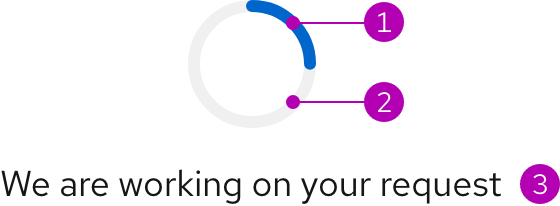
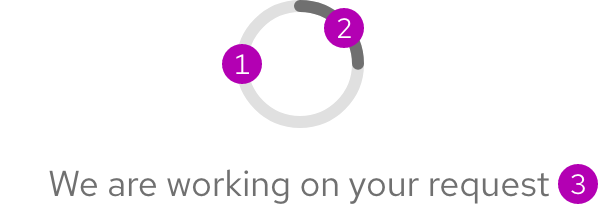
docs(spinner): updated spinner docs based on XD and Google docs

Changed region(s): [[0.0, 0.7864, 1.0, 0.9903], [0.3643, 0.0, 0.7286, 0.6408]]

diff --git a/elements/rh-spinner/docs/20-guidelines.md b/elements/rh-spinner/docs/20-guidelines.md
@@ -1,52 +1,66 @@
-{% section %}
-## Guidelines
+## Usage 
+Use a spinner to show that something is loading after a user takes action.
+## When to use a spinner 
+When users advance to a new page and the structure is unknown both in quantity and shape, use a spinner. If users expect to see components on a new screen after they perform an action, a Skeleton should be used instead in order to reflect the structure. If the wait time after performing an action is less than a few seconds, a spinner should be used. For experiences that need longer than a few seconds to load, use a Progress bar instead. Lastly, when the result of an experience has no data or the screen is empty, use an Empty state instead.
+## Contextual sizes 
+Depending on what data is being retrieved and loaded and how much space it occupies, use a spinner size that matches.
+The large size is the default, it can be used for whole pages or large containers
+The medium size is recommended for smaller pages or containers
+If you use the small size with a text label, it can be used in very small containers like a card
+If you use the small size without a text label, it should only be used in buttons or other containers of equal size
 
-The spinner is used to show that a page or section is loading after a user takes action. A spinner should be used when:
+{% example palette="light",
+          class="inline-flex centered",
+          style="margin-block:var(--rh-space-2xl);",
+          alt=" Spinner usage examples; from top to bottom, an app, a dialog, a card, and a button showing spinners of various sizes with and without text labels",
+          src="../spinner-examples.png" %}
+## Orientation 
+A spinner is always oriented above the optional text label, if visible.
 
-- loading is expected to take fewer than ten seconds or
-- the structure or amount of content that’s loading is unknown.
+{% example palette="light",
+          class="inline-flex centered",
+          style="margin-block:var(--rh-space-2xl);",
+          alt=" Two spinners; one showing the correct orientation and the other showing an incorrect orientation",
+          src="../spinner-orientation.png" %}
 
-### Adding a text label
 
-Keep the text label brief to give users enough time to read it. A maximum character count of about 30 characters should meet this requirement.
+## Text label 
+The text label should be as brief and general as possible in order to give users enough time to read it.
 
-### Sizing
+{% example palette="light",
+          class="inline-flex centered",
+          style="margin-block:var(--rh-space-2xl);",
+          alt=" Two spinners; one with a short text label, which is acceptable, and one with a very long text label which is not acceptable",
+          src="../spinner-text-label.png" %}
 
-The spinner comes in large, medium, and small.
-
-- The **large spinner** is the default size. This works well for whole pages or containers that are wider than 768px.
-- The **medium spinner** is recommended for containers that are smaller than 768px.
-- The **small spinner** without a text label should be used only in buttons or other elements of a similar size. If the small spinner will include a text label, it can be used in containers that are up to 360px wide, like a card.
-{% endsection %}
-
-{% section %}
-## Behavior
-
-### Animation
-
-The spinner animation will loop for as long as the content takes to load. The spinner will disappear once content begins to load.
-{% endsection %}
-
-{% section %}
-## Best practices
-
-### Placement
-
-Do not position a spinner anywhere other than vertically and horizontally centered. Keeping it centered should help the user understand that the whole area needs to load.
-
-{% example palette="wrong",
-           width=360,
-           alt="Spinner is centered horizontally but not vertically in blank card",
-           src="../spinner-best-practices-placement.png" %}
-
-### Using the small spinner
-
-Do not use a small spinner, especially without a text label, in large containers or for full pages. Doing this may make it harder for the user to spot.
+## Animation 
+The spinner animation will loop until the data is retrieved and disappears when it loads.
+## Best practices 
+### Bad placement 
+Do not align a spinner away from the horizontal and vertical center. Keeping it centered helps users understand that the whole area is loading instead of one specific part.
 
 {% example palette="wrong",
-           width=871,
-           alt="Small spinner in the middle of a blank page",
-           src="../spinner-best-practices-small-spinner.png" %}
-{% endsection %}
+          class="inline-flex centered",
+          style="margin-block:var(--rh-space-2xl);",
+          alt=" A spinner not horizontally or vertically centered in a container which is incorrect usage",
+          src="../spinner-best-practice-1.png" %}
 
-{% include 'feedback.html' %}
+### Cut off by browser window 
+A tooltip should not be cut off by the browser window. Change the orientation if it does.
+
+{% example palette="wrong",
+          class="inline-flex centered",
+          style="margin-block:var(--rh-space-2xl);",
+          alt=" A small spinner used in a large container which is incorrect usage",
+          src="../spinner-best-practice-2.png" %}
+
+
+### Wrong orientation 
+Do not change the orientation, the spinner is always positioned on top of the text label.
+
+{% example palette="wrong",
+          class="inline-flex centered",
+          style="margin-block:var(--rh-space-2xl);",
+          alt=" Two spinners with different orientations which is incorrect usage",
+          src="../spinner-best-practice-3.png" %}
+

diff --git a/elements/rh-spinner/docs/10-style.md b/elements/rh-spinner/docs/10-style.md
@@ -1,81 +1,85 @@
+
 {% section %}
-## Style
+## Style 
+A spinner is an animated line segment that follows a track and may include an optional text label.
+### Anatomy 
+{% example palette="light",
+          class="inline-flex centered",
+          style="margin-block:var(--rh-space-2xl);",
+          alt=" Anatomy of a spinner with annotations; number 1 is pointing to the track, number 2 is pointing to the indicator, and number 3 is pointing to the optional text label",
+          src="../spinner-anatomy.png" %}
 
-### Anatomy
+1) Track
+2) Indicator
+3) Optional text label
+{% endsection %}
 
-The spinner is composed of three parts. The track outlines the trajectory of the spinner animation, and the indicator is the animated segment. A spinner can also include a text label, but this piece is not required.
+{% section %}
+## Sizes 
+A spinner comes in large, medium, and small sizes. Each size includes an optional text label on the bottom.
 
 {% example palette="light",
-           width=280,
-           alt="Spinner with numbers pointing to parts of the element",
-           src="../spinner-anatomy.png" %}
+          class="inline-flex centered",
+          style="margin-block:var(--rh-space-2xl);",
+          alt=" Small size, medium size, and large size spinners with their text labels below",
+          src="../spinner-sizes.png" %}
 
-1. Indicator
-2. Track
-3. Text label
-{.example-notes}
 
 {% endsection %}
 
 {% section %}
-## Theme
-
-### Light theme
+## Theme 
+A spinner is available in both light and dark themes.
+### Light theme 
 {% example palette="light",
-           width=251,
-           alt="Spinner against a white background",
-           src="../spinner-light-theme.png" %}
+          class="inline-flex centered",
+          style="margin-block:var(--rh-space-2xl);",
+          alt=" Light theme spinner",
+          src="../spinner-theme-light.png" %}
 
-### Dark theme
-{% example palette="darkest",
-           width=251,
-           alt="Spinner against the darkest gray background",
-           src="../spinner-dark-theme.png" %}
-{% endsection %}
 
-{% section %}
-## Configuration
+### Dark theme 
+{% example palette="dark",
+          class="inline-flex centered",
+          style="margin-block:var(--rh-space-2xl);",
+          alt=" Dark theme spinner",
+          src="../spinner-theme-dark.png" %}
 
-### Alignment
-
-The spinner should be centered horizontally and vertically in a container. This helps demonstrate that the whole container is loading, rather than only the top half, for example.
-
-{% example palette="light",
-           width=360,
-           alt="Blank card with spinner centered horizontally and vertically",
-           src="../spinner-alignment-centered.png" %}
-
-However, if a small spinner is being used within a button it can be positioned next to the text as if it were an icon.
-
-{% example palette="light",
-           width=133,
-           alt="Button with spinner to the left of the text",
-           src="../spinner-alignment-button.png" %}
 
 {% endsection %}
 
 {% section %}
-## Spacing
-
-The spinner uses [spacing](/foundations/spacing/) tokens to define the amount of space between elements.
+## Configuration 
+### Container 
+A spinner is centered horizontally and vertically within a container and the viewport by default. This demonstrates that the whole container is loading rather than one specific area.
 
 {% example palette="light",
-           width=872,
-           alt="Diagram showing 16 pixels of space between any size of spinner and its text label",
-           src="../spinner-spacing.png" %}
+          class="inline-flex centered",
+          style="margin-block:var(--rh-space-2xl);",
+          alt=" Diagram of how a spinner should be horizontally and vertically centered within a container no matter its size or if a text label is included or not",
+          src="../spinner-configuration-container.png" %}
 
-<table style="width:100%">
-    <tr>
-        <th>Spacer</th>
-        <th>Current value</th>
-        <th>Token name</th>
-    </tr>
-    <tr>
-        <td><img src="/assets/spacing/16px-with-number.svg" alt="16 pixel spacer"></td>
-        <td>1.0rem<br>16px</td>
-        <td>--rh-space-lg</td>
-    </tr>
-</table>
+
+### Button 
+If a small size spinner is used within a button, it can be positioned to the left of the text as if it were an icon.
+
+{% example palette="light",
+          class="inline-flex centered",
+          style="margin-block:var(--rh-space-2xl);",
+          alt=" Button with a small size spinner icon to the left as if it were an icon",
+          src="../spinner-configuration-button.png" %}
+
+
+## Space 
+{% example palette="light",
+          class="inline-flex centered",
+          style="margin-block:var(--rh-space-2xl);",
+          alt=" Spacing between all spinner sizes and their text labels",
+          src="../spinner-space.png" %}
+
+
+| Spacer | Current value |
+| ------ | ------------- |
+| ![8px spacer]({{ '../spinner-16px-spacer.png' | url }}) | 16px |
+
 {% endsection %}
-
-{% include 'feedback.html' %}

diff --git a/elements/rh-spinner/docs/40-accessibility.md b/elements/rh-spinner/docs/40-accessibility.md
@@ -1,9 +1,14 @@
 {% section %}
 ## Implementation
 
-- A status message is conveyed to assistive technologies through `role="status"`.
-- The text label should communicate that a section is loading.
+<rh-alert state="warning">
+<h3 slot="header">Warning</h3>
+<p>A spinner has no keyboard accessibility considerations since it is intentionally not operable or navigable.</p>
+</rh-alert>
 
+- Ensure that surrounding content can convey the purpose of a spinner via assistive technologies
+- The completion of the loading state should also be conveyed to assistive technologies
 {% endsection %}
 
-{% include 'feedback.html' %}
+{% include 'accessibility/ariaguide.md' %}
+{% include 'accessibility/wcag.md' %}

diff --git a/elements/rh-spinner/docs/30-code.md b/elements/rh-spinner/docs/30-code.md
@@ -1,5 +1,22 @@
 {% renderInstallation %}{% endrenderInstallation %}
 
+{% band header="Usage" %}
+### Default/Large Spinner
+```html
+<rh-spinner></rh-spinner>
+```
+
+### Medium Spinner
+```html
+<rh-spinner size="md"></rh-spinner>
+```
+
+### Small Spinner
+```html
+<rh-spinner size="sm"></rh-spinner>
+```
+{% endband %}
+
 {% renderSlots %}{% endrenderSlots %}
 
 {% renderAttributes %}{% endrenderAttributes %}
@@ -7,3 +24,7 @@
 {% renderMethods %}{% endrenderMethods %}
 
 {% renderEvents %}{% endrenderEvents %}
+
+{% renderCssParts for='rh-tabs', level=3%}{% endrenderCssParts %}
+
+{% renderCssCustomProperties for='rh-tabs', level=3%}{% endrenderCssCustomProperties %}

diff --git a/elements/rh-spinner/docs/00-overview.md b/elements/rh-spinner/docs/00-overview.md
@@ -1,5 +1,6 @@
 {% section %}
 ## Overview
+{{ tagName | getElementDescription }}
 
 A spinner indicates that an action is in progress. It appears as an animated circle over the section that is loading, and it may include a text label.
 
@@ -32,5 +33,3 @@ A spinner indicates that an action is in progress. It appears as an animated cir
 {% section %}
 {% componentStatus -%}{% endcomponentStatus %}
 {% endsection %}
-
-{% include 'feedback.html' %}
